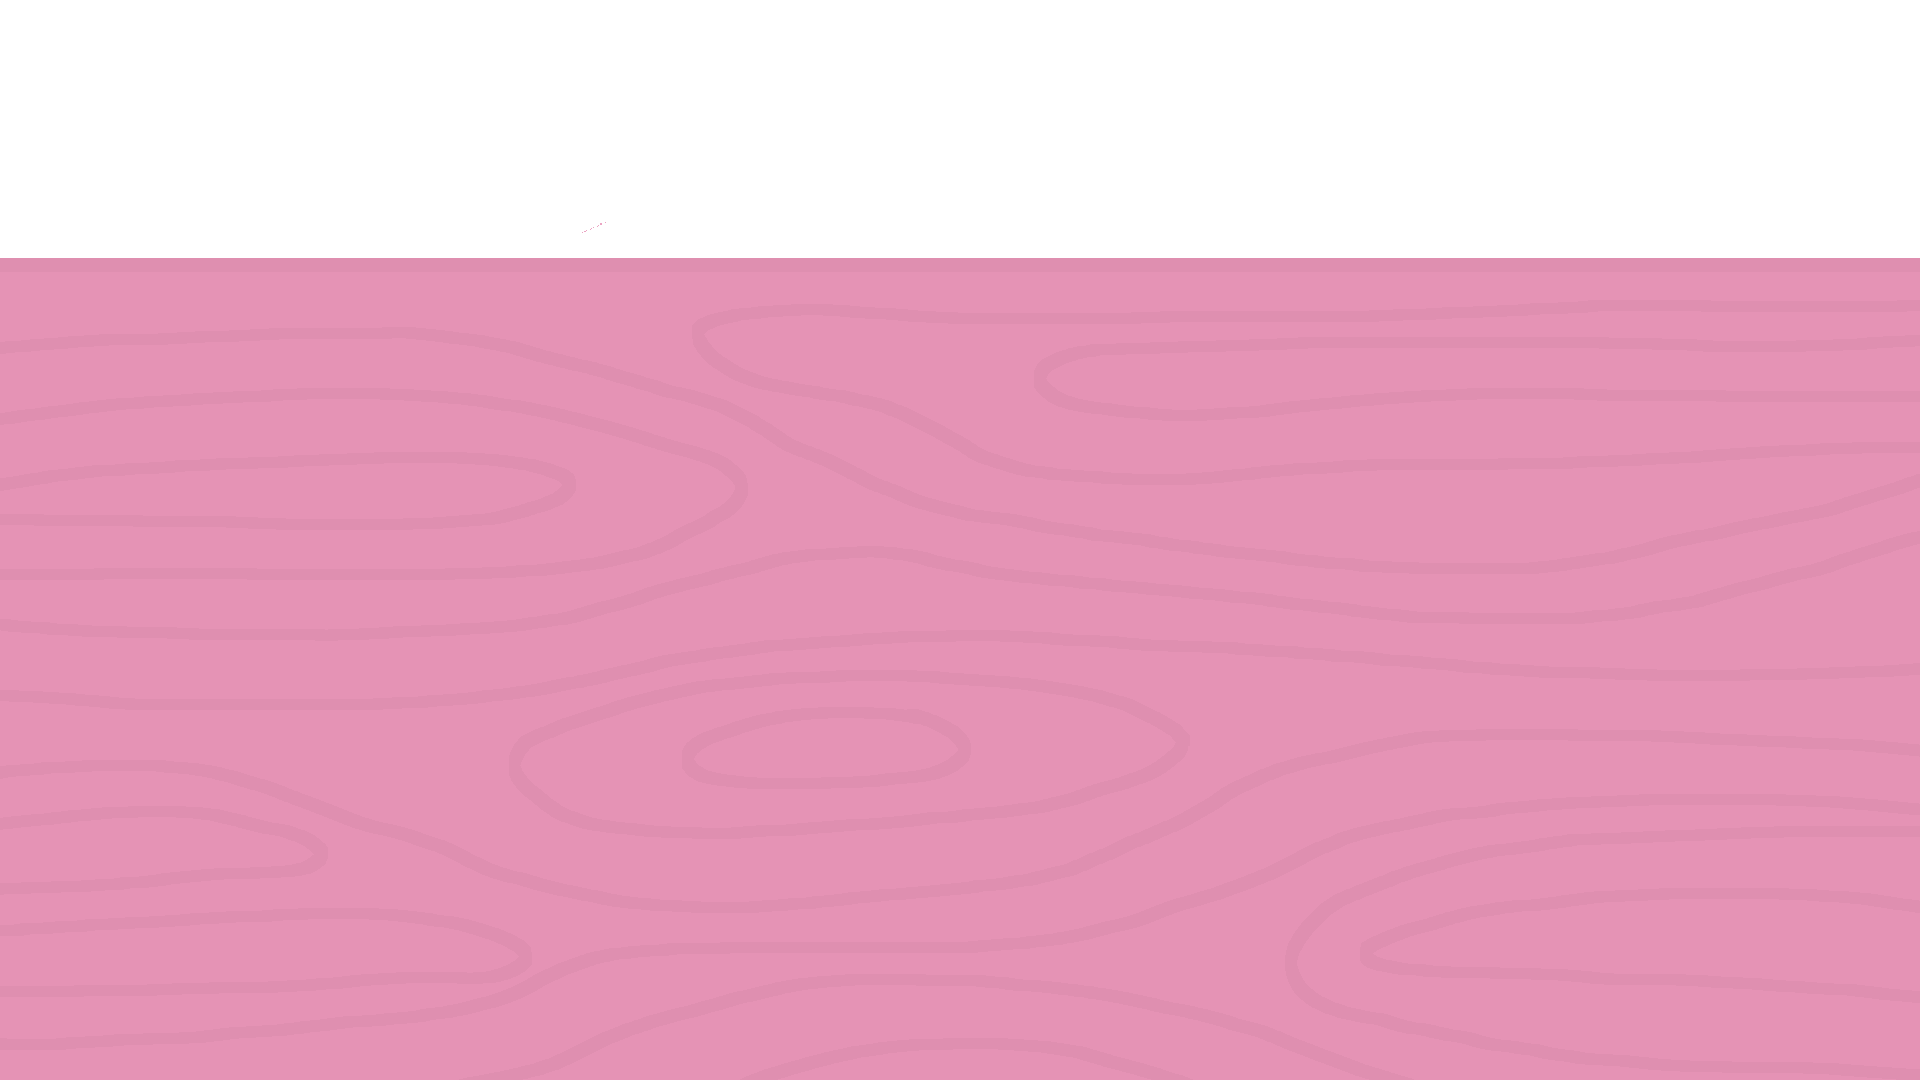
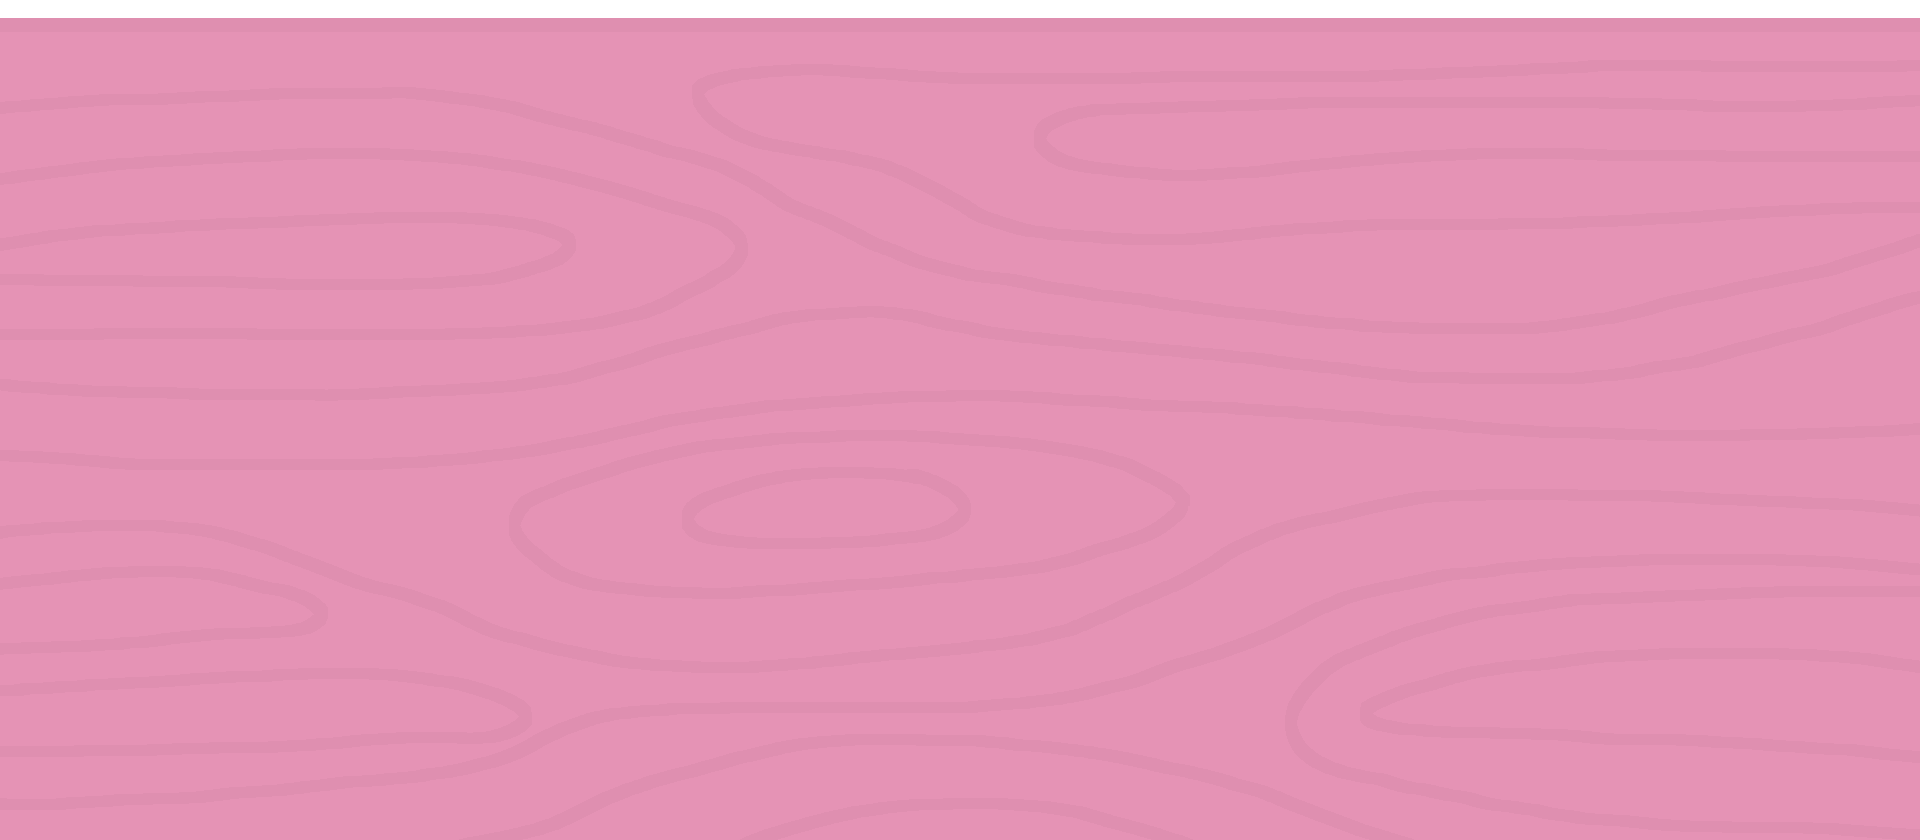
clean up desk sizing and item positioning

Changed region(s): [[0.0, 0.0, 1.0, 0.2476]]

diff --git a/src/components/Desk.jsx b/src/components/Desk.jsx
@@ -1,110 +1,104 @@
-import React, {useState} from 'react'
-import styles from '../style'
-import { useNavigate } from 'react-router-dom'
-import { coffee, laptop, pic, paper, phone, desk, minecraft, inventory } from '../assets'
-import { navLinks } from '../constants';
-import { Inventory } from './minecraft';
+import React, { useState } from "react";
+import { useNavigate } from "react-router-dom";
+import { desk, inventory } from "../assets";
+import { Inventory } from "./minecraft";
+import { deskItems } from "../constants/deskItems";
 
 const Desk = () => {
   const navigate = useNavigate();
   const [minecraftOpen, setMinecraftOpen] = useState(false);
 
+  const handleAction = (action) => {
+    switch (action) {
+      case "about":
+        navigate("/about");
+        break;
+      case "contact":
+        navigate("/contact");
+        break;
+      case "inventory":
+        setMinecraftOpen(true);
+        break;
+      default:
+        break;
+    }
+  };
+
   return (
-    <div className="min-h-screen flex flex-col justify-between"> 
-      <h1 className="font-pixel font-bold ss:text-[72px] text-[52px] text-white ss:leading-[100.8px] leading-[75px] ml-4">Welcome to my desk!</h1>
-      <h1 className="font-pixel ss:text-[42px] text-[22px] text-softPink ss:leading-[100.8px] leading-[75px] ml-4">Click an item to explore</h1>
+    <main className="min-h-screen flex flex-col">
+  <header className="ml-4 mb-12 shrink-0">
+    <h1 className="font-pixel font-bold text-white text-[clamp(32px,5vw,72px)] leading-tight">
+      Welcome to my desk!
+    </h1>
 
-    <div className="relative w-full h-[70vh] bg-cover bg-center bg-no-repeat z-0"
-      style={{backgroundImage: `url(${desk})`,opacity: 1,}}
-    >
-      
-    <div className="relative z-10 w-full h-full font-pixel text-white responsive-text">
+    <p className="font-pixel text-softPink text-[clamp(18px,3vw,42px)] leading-tight">
+      Click an item to explore
+    </p>
+  </header>
 
-      {/* Laptop → GitHub */}
-      <a
-        href={navLinks.find(link => link.id === "projects").path}
-        target="_blank"
-        rel="noopener noreferrer"
-        className="absolute top-[6%] left-[1%] w-[20%] min-w-[200px] max-w-[600px] flex flex-col items-center hover-glow"
-      >
-        <img src={laptop} alt="Projects"
-          className="pixel-style w-full transition-all"
-        />
-        <span>Projects</span>
-      </a>
+  <section
+    className="desk-scene relative flex-1 min-h-0 w-full font-pixel text-white
+               bg-cover bg-center bg-no-repeat"
+    style={{
+      backgroundImage: `url(${desk})`,
+    }}
+  >
+        {deskItems.map((item) => {
+          const itemStyle = {
+            ...item.position,
+            width: item.width,
+            transform: item.rotation
+              ? `rotate(${item.rotation})`
+              : undefined,
+          };
 
-      {/* Resume → PDF */}
-      <a
-        href={navLinks.find(link => link.id === "resume").path}
-        target="_blank"
-        rel="noopener noreferrer"
-        className="absolute top-[45%] left-[70%] w-[10%] min-w-[100px] max-w-[125px] flex flex-col items-center -rotate-6 hover-glow"
-      >
-        <img src={paper} alt="Resume"
-          className="pixel-style w-full transition-all"
-        />
-        <span>Resume</span>
-      </a>
+          const content = (
+            <>
+              <img
+                src={item.image}
+                alt=""
+                draggable="false"
+                className="pixel-style w-full h-auto"
+              />
+              <span>{item.label}</span>
+            </>
+          );
 
-      {/* Phone → LinkedIn */}
-      <a
-        href="https://www.linkedin.com/in/zoha-qamar/"
-        target="_blank"
-        rel="noopener noreferrer"
-        className="absolute top-[45%] left-[40%] w-[10%] min-w-[100px] max-w-[200px] flex flex-col items-center rotate-12 hover-glow"
-      >
-        <img src={phone} alt="LinkedIn"
-          className="pixel-style w-full transition-all"
-        />
-        <span>LinkedIn</span>
-      </a>
+          return item.href ? (
+            <a
+              key={item.id}
+              href={item.href}
+              target="_blank"
+              rel="noopener noreferrer"
+              aria-label={item.label}
+              className="absolute flex flex-col items-center hover-glow"
+              style={itemStyle}
+            >
+              {content}
+            </a>
+          ) : (
+            <button
+              key={item.id}
+              type="button"
+              onClick={() => handleAction(item.action)}
+              aria-label={item.label}
+              className="absolute flex flex-col items-center hover-glow"
+              style={itemStyle}
+            >
+              {content}
+            </button>
+          );
+        })}
+      </section>
 
-      {/* Pic → About */}
-      <div
-        onClick={() => navigate('/about')}
-        className="absolute top-[55%] left-[20%] cursor-pointer w-[10%] min-w-[65px] max-w-[100px] flex flex-col items-center -rotate-12 hover-glow"
-      >
-        <img src={pic} alt="About"
-          className="pixel-style w-full transition-all"
-        />
-        <span>About</span>
-      </div>
-
-      {/* Coffee → Contact */}
-      <div
-        onClick={() => navigate('/contact')}
-        className="absolute top-[8%] left-[75%] cursor-pointer w-[10%] min-w-[75px] max-w-[100px] flex flex-col items-center hover-glow"
-      >
-        <img src={coffee} alt="Contact"
-          className="pixel-style w-full transition-all"
-        />
-        <span>Contact</span>
-      </div>
-
-      <button type="button" onClick={() => setMinecraftOpen(true)} aria-label="Open mine systems developer info"
-            className="absolute top-[22%] left-[55%] w-[9%] min-w-[20px] max-w-[50px] flex flex-col items-center hover-glow"
-          >
-            <img
-              src={minecraft}
-              alt="Mine Dev experience"
-              className="pixel-style w-full transition-all"
-            />
-            <span>MineDev</span>
-      </button>
-
-        </div>
-      </div>
-
-    {/* Minecraft inventory window */}
       {minecraftOpen && (
         <Inventory
-        backgroundImage={inventory}
+          backgroundImage={inventory}
           onClose={() => setMinecraftOpen(false)}
         />
       )}
-
-    </div>
-  )
-}
+    </main>
+  );
+};
 
 export default Desk;

diff --git a/src/constants/deskItems.js b/src/constants/deskItems.js
@@ -1,0 +1,57 @@
+
+import { coffee, laptop, pic, paper, phone, minecraft } from "../assets";
+import { navLinks } from "./index";
+
+export const deskItems = [
+  {
+    id: "projects",
+    image: laptop,
+    label: "Projects",
+    href: navLinks.find(link => link.id === "projects").path,
+    position: { top: "0%", left: "1%" },
+    width: "clamp(130px, 24cqw, 360px)",
+  },
+  {
+    id: "resume",
+    image: paper,
+    label: "Resume",
+    href: navLinks.find(link => link.id === "resume").path,
+    position: { top: "30%", left: "65%" },
+    width: "clamp(65px, 10cqw, 150px)",
+    rotation: "-6deg",
+  },
+  {
+    id: "linkedin",
+    image: phone,
+    label: "LinkedIn",
+    href: "https://www.linkedin.com/in/zoha-qamar/",
+    position: { top: "25%", left: "40%" },
+    width: "clamp(65px, 10cqw, 150px)",
+    rotation: "12deg",
+  },
+  {
+    id: "about",
+    image: pic,
+    label: "About",
+    action: "about",
+    position: { top: "35%", left: "25%" },
+    width: "clamp(50px, 7cqw, 110px)",
+    rotation: "-12deg",
+  },
+  {
+    id: "contact",
+    image: coffee,
+    label: "Contact",
+    action: "contact",
+    position: { top: "0%", left: "75%" },
+    width: "clamp(60px, 8cqw, 130px)",
+  },
+  {
+    id: "mine",
+    image: minecraft,
+    label: "MineDev",
+    action: "inventory",
+    position: { top: "0%", left: "55%" },
+    width: "clamp(35px, 5cqw, 80px)",
+  },
+];

diff --git a/src/components/ChatBot.jsx b/src/components/ChatBot.jsx
@@ -71,7 +71,7 @@ const ChatBot = () => {
     <>
       {/* Floating Chat Icon */}
       <button
-        className="fixed bottom-6 right-6 bg-pink-500 text-white rounded-full p-4 shadow-lg hover:bg-pink-600 transition-colors"
+        className="fixed bottom-6 right-6 z-[100] bg-pink-500 text-white rounded-full p-4 shadow-lg hover:bg-pink-600 transition-colors"
         onClick={handleToggle}
         aria-label="Toggle chat"
       >
@@ -80,7 +80,7 @@ const ChatBot = () => {
 
       {/* Chat Window */}
       {isOpen && (
-        <div className="fixed bottom-20 right-6 w-80 h-[400px] bg-white rounded-lg shadow-lg flex flex-col border border-gray-200">
+        <div className="fixed bottom-20 right-6 z-[100] w-80 h-[400px] bg-white rounded-lg shadow-lg flex flex-col border border-gray-200">
           {/* Header */}
           <div className="p-4 border-b bg-pink-500 text-white font-bold flex justify-between items-center">
             <span>ZohaBot 🤖</span>

diff --git a/src/constants/inventoryData.js b/src/constants/inventoryData.js
@@ -207,7 +207,7 @@ const equippedItems = [
     id: "tnt",
     title: "Blast Explosives",
     category: "Other",
-    description: "To set off and watch blasts at the mine. Not for personal use.",
+    description: "Set off and watch blasts at the mine. Not for personal use.",
     row: 3,
     column: 1
   },

diff --git a/src/index.css b/src/index.css
@@ -148,6 +148,12 @@
   filter: blur(750px);
 }
 
+.desk-scene {
+  background-size: cover;
+  background-position: center;
+  overflow: hidden;
+}
+
 @keyframes peel-in {
   0% {
     transform: rotateX(-90deg);
